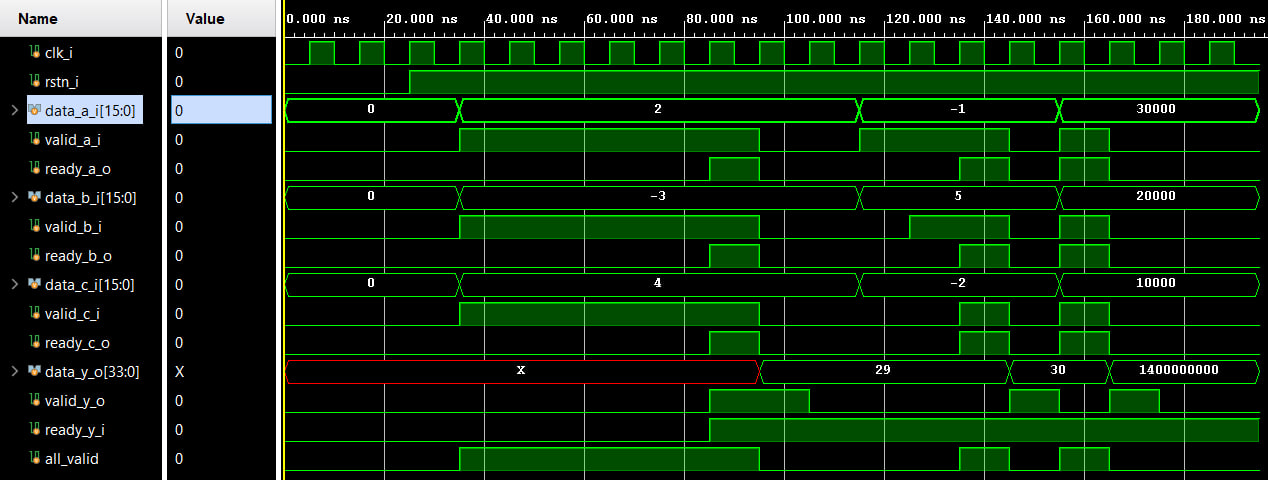
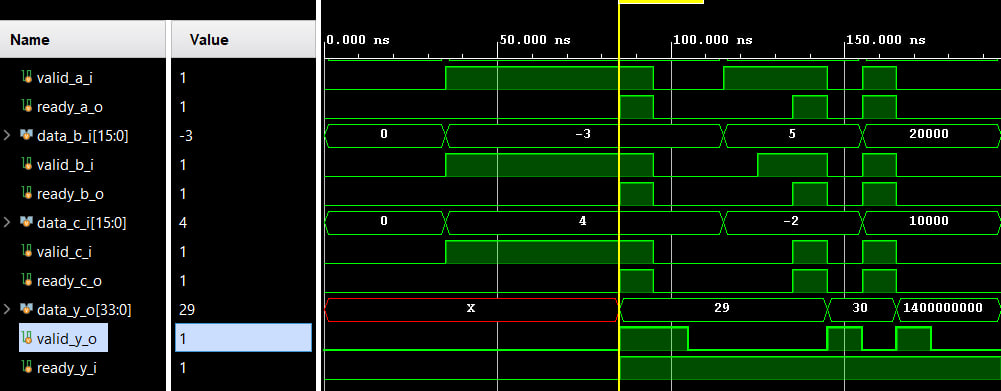
Исправил 5 и 6 ЛР, добавил временные диаграммы

diff --git a/05_pipelines_and_systolic_arrays/README.md b/05_pipelines_and_systolic_arrays/README.md
@@ -84,6 +84,12 @@
 
 Корректность работы после внесённых изменений была проверена в testbench.
 
+#### Временная диаграмма
+
+Ниже показана временная диаграмма:
+
+![Временная диаграмма](./materials/waveform.png)
+
 ### 3. Удаление лишних сбросов
 
 Из регистров конвейера были убраны лишние сбросы, не влияющие на корректность обработки данных при наличии сигнала `valid`.
